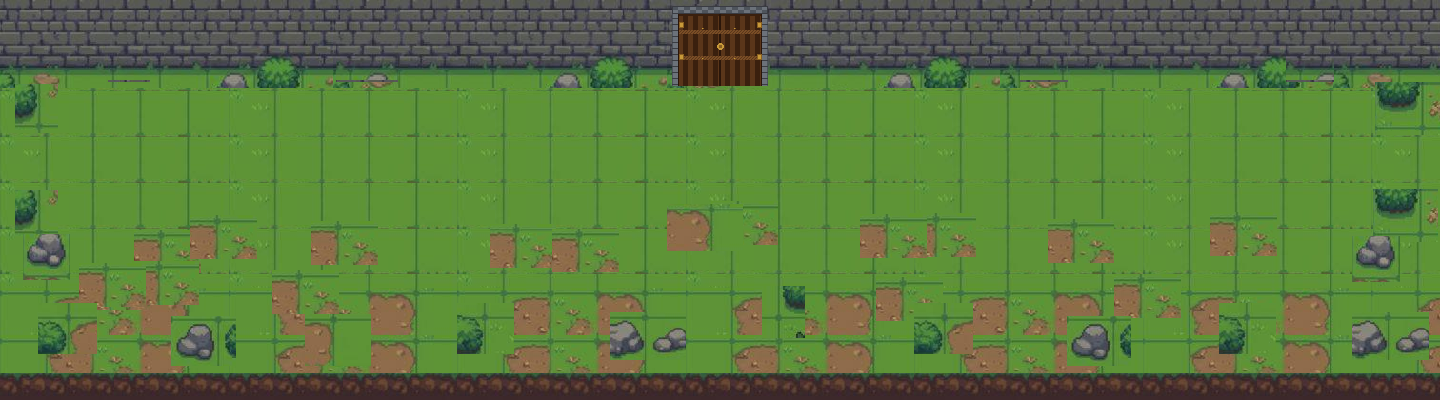
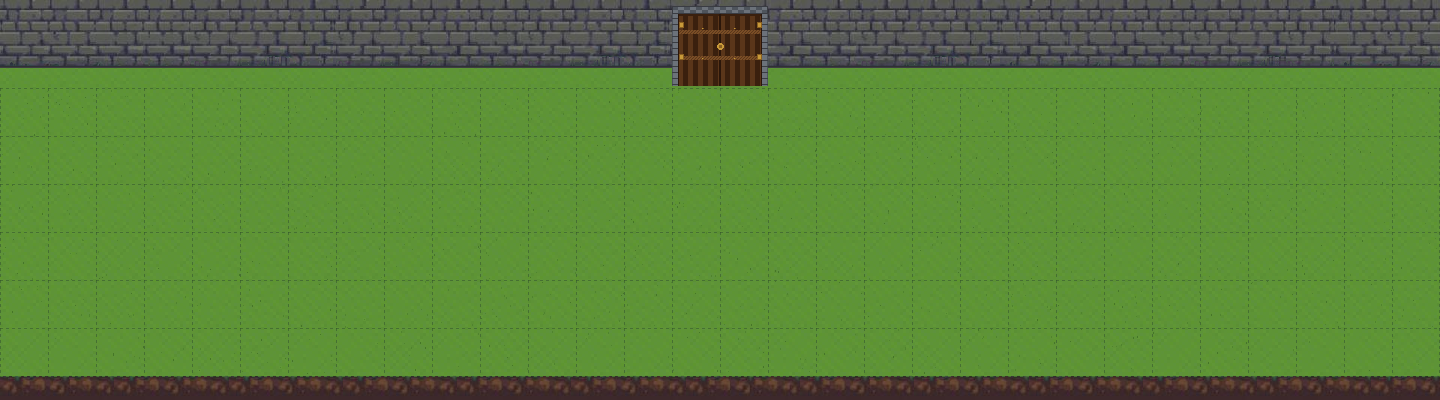
Update COINFRONT Pages demo with clean-grass battlefield
Replace coinfront/ with the clean-grass battle build: no rocks,
bushes, or mud pits; keep 48px dashed grid, closed wooden gate,
stone wall, and bottom dirt path for phone testing.

diff --git a/coinfront/js/game.js b/coinfront/js/game.js
@@ -56,6 +56,91 @@
       const PUSHER_ART_ASPECT = 1440 / 240;
       const BATTLE_ART_ASPECT = 1440 / 400;
 
+      // Battlefield bitmap is 1440×400: 88px wall, 6×48px grass tiles, 24px footer.
+      const BATTLE_ART_W = 1440;
+      const BATTLE_ART_H = 400;
+      const BATTLE_TILE = 48;
+      const BATTLE_WALL_H = 88;
+      const BATTLE_FOOT_H = 24;
+
+      function chooseBattleTileOut(dw, dh) {
+        if (Math.abs(dw - BATTLE_ART_W) <= 2) return BATTLE_TILE; // 1:1 on the 1440 desktop stage
+        const raw = Math.max(dw / BATTLE_ART_W, dh / BATTLE_ART_H);
+        const target = BATTLE_TILE * raw;
+        let best = Math.max(1, Math.round(target));
+        let bestScore = -1e9;
+        const lo = Math.max(1, Math.floor(target) - 16);
+        const hi = Math.ceil(target) + 16;
+        for (let t = lo; t <= hi; t++) {
+          const pad = dw % t;
+          const wallD = Math.round(BATTLE_WALL_H * t / BATTLE_TILE);
+          const footD = Math.round(BATTLE_FOOT_H * t / BATTLE_TILE);
+          const grass = dh - wallD - footD;
+          if (grass < t) continue;
+          let s = -Math.abs(t - target) * 2;
+          if (pad === 0) s += 80;
+          else s -= Math.min(pad, t - pad) * 0.6;
+          s -= (grass % t) * 0.3;
+          if (s > bestScore) { bestScore = s; best = t; }
+        }
+        return best;
+      }
+
+      function drawBattleBackground(dx, dy, dw, dh) {
+        const img = imgReady(ASSETS.bg_battle_wide) ? ASSETS.bg_battle_wide
+          : (imgReady(ASSETS.bg_battle) ? ASSETS.bg_battle : null);
+        if (!img || dw < 1 || dh < 1) return false;
+        const iw = img.naturalWidth || BATTLE_ART_W;
+        const ih = img.naturalHeight || BATTLE_ART_H;
+        const TILE = (iw === BATTLE_ART_W && ih === BATTLE_ART_H) ? BATTLE_TILE : null;
+        const prev = ctx.imageSmoothingEnabled;
+        ctx.imageSmoothingEnabled = false;
+        if (!TILE) {
+          const scale = Math.max(dw / iw, dh / ih);
+          const sw = dw / scale, sh = dh / scale;
+          const sx = (iw - sw) / 2;
+          ctx.drawImage(img, sx, 0, sw, sh, dx, dy, dw, dh);
+          ctx.imageSmoothingEnabled = prev;
+          return true;
+        }
+        const tileOut = chooseBattleTileOut(dw, dh);
+        const nSrcCols = Math.floor(iw / TILE);
+        const nCols = Math.max(1, Math.floor(dw / tileOut));
+        const x0 = Math.floor((dw - nCols * tileOut) / 2);
+        let startCol = Math.round((nSrcCols - nCols) / 2);
+        startCol = Math.max(0, Math.min(nSrcCols - nCols, startCol));
+        const wallD = Math.round(BATTLE_WALL_H * tileOut / TILE);
+        const footD = Math.round(BATTLE_FOOT_H * tileOut / TILE);
+        const grassD = Math.max(0, dh - wallD - footD);
+        const nRows = Math.max(1, Math.floor(grassD / tileOut));
+        const nSrcRows = Math.floor((ih - BATTLE_WALL_H - BATTLE_FOOT_H) / TILE);
+        const srcX = startCol * TILE;
+        const srcW = nCols * TILE;
+        const destX = dx + x0;
+        const destW = nCols * tileOut;
+        if (x0 > 0 || destX + destW < dx + dw) {
+          ctx.fillStyle = '#5e9337';
+          ctx.fillRect(dx, dy, dw, dh);
+        }
+        ctx.drawImage(img, srcX, 0, srcW, BATTLE_WALL_H, destX, dy, destW, wallD);
+        const emptyCol = 12, emptyRow = 1;
+        for (let r = 0; r < nRows; r++) {
+          const srcRow = (r < nSrcRows) ? r : emptyRow;
+          const sy = BATTLE_WALL_H + srcRow * TILE;
+          const dyR = dy + wallD + r * tileOut;
+          ctx.drawImage(img, srcX, sy, srcW, TILE, destX, dyR, destW, tileOut);
+        }
+        const usedGrass = nRows * tileOut;
+        if (usedGrass < grassD) {
+          ctx.fillStyle = '#5e9337';
+          ctx.fillRect(destX, dy + wallD + usedGrass, destW, grassD - usedGrass);
+        }
+        const footY = dy + dh - footD;
+        ctx.drawImage(img, srcX, ih - BATTLE_FOOT_H, srcW, BATTLE_FOOT_H, destX, footY, destW, footD);
+        ctx.imageSmoothingEnabled = prev;
+        return true;
+      }
+
       function drawImageCover(img, dx, dy, dw, dh, alignY) {
         if (!imgReady(img) || dw < 1 || dh < 1) return false;
         const iw = img.naturalWidth;
@@ -2259,8 +2344,7 @@
           const battleH = BATTLE_BOTTOM - BATTLE_TOP;
           ctx.fillStyle = '#2d4c2b';
           ctx.fillRect(0, BATTLE_TOP, W, battleH);
-          const battleBg = imgReady(ASSETS.bg_battle_wide) ? ASSETS.bg_battle_wide : ASSETS.bg_battle;
-          if (!drawImageCover(battleBg, 0, BATTLE_TOP, W, battleH, 'top')) {
+          if (!drawBattleBackground(0, BATTLE_TOP, W, battleH)) {
             ctx.fillStyle = '#2d4c2b';
             ctx.fillRect(0, BATTLE_TOP, W, battleH);
           }
@@ -2743,6 +2827,13 @@
       }
 
       window.addEventListener('resize', resizeCanvas);
+      if (typeof ResizeObserver === 'function' && stageWrap) {
+        const stageRo = new ResizeObserver(() => resizeCanvas());
+        stageRo.observe(stageWrap);
+      }
+      if (document.fonts && document.fonts.ready) {
+        document.fonts.ready.then(() => resizeCanvas());
+      }
       function boot() {
         resizeCanvas();
         resetGame();

diff --git a/coinfront/css/styles.css b/coinfront/css/styles.css
@@ -59,11 +59,16 @@ img.px-icon {
   display: flex;
   flex-direction: column;
   background: var(--panel);
-  border-left: 1px solid var(--line);
-  border-right: 1px solid var(--line);
+  /* Side lines are inset shadows so a 1440px viewport keeps a 1440px stage
+     (a 1px border + border-box would shrink the canvas to 1438 and break
+     a 48px battlefield grid). */
+  border-left: 0;
+  border-right: 0;
   box-shadow:
     0 0 48px rgba(176, 138, 62, 0.16),
-    inset 0 0 24px rgba(0, 0, 0, 0.55);
+    inset 0 0 24px rgba(0, 0, 0, 0.55),
+    inset 1px 0 0 var(--line),
+    inset -1px 0 0 var(--line);
 }
 
 .top-bar {
